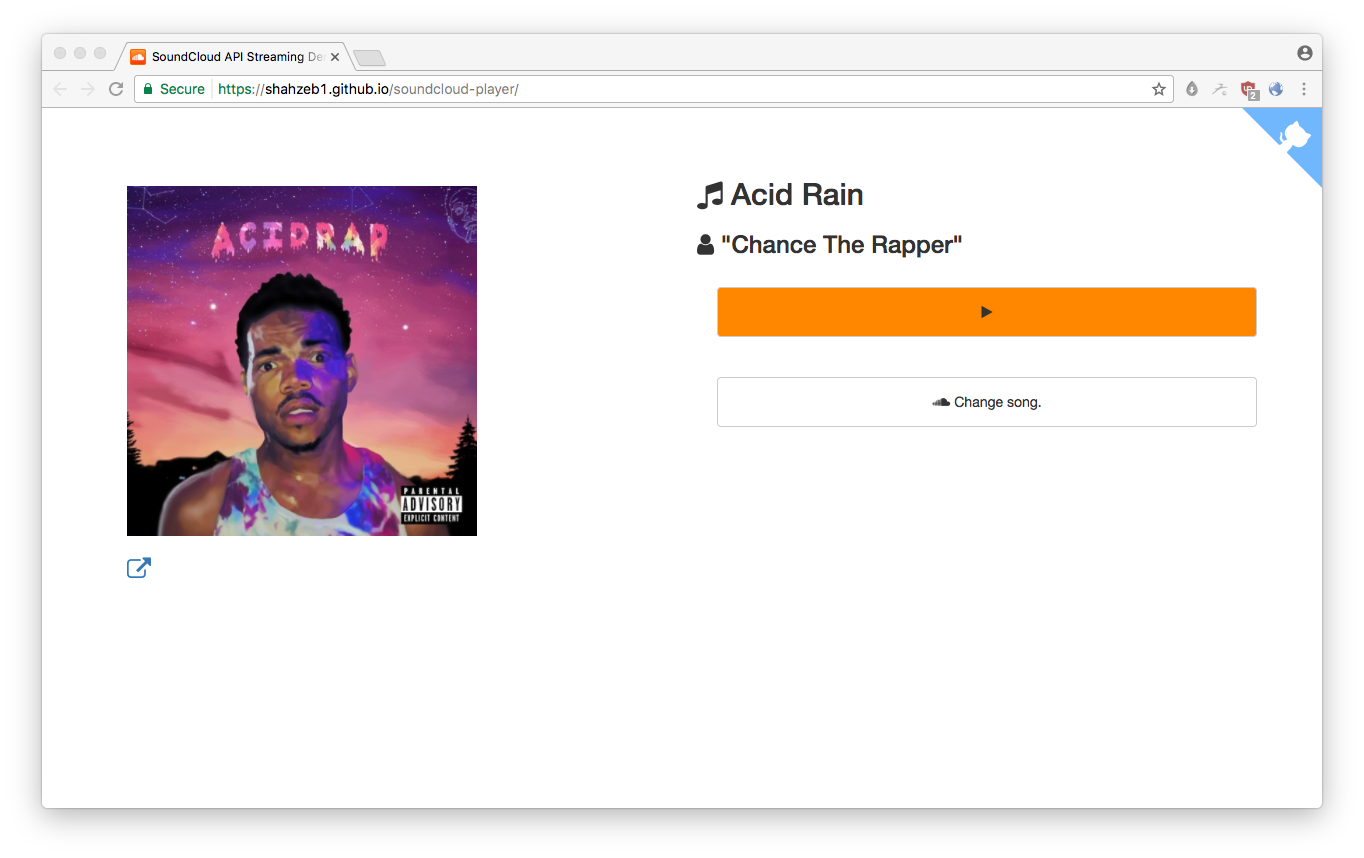
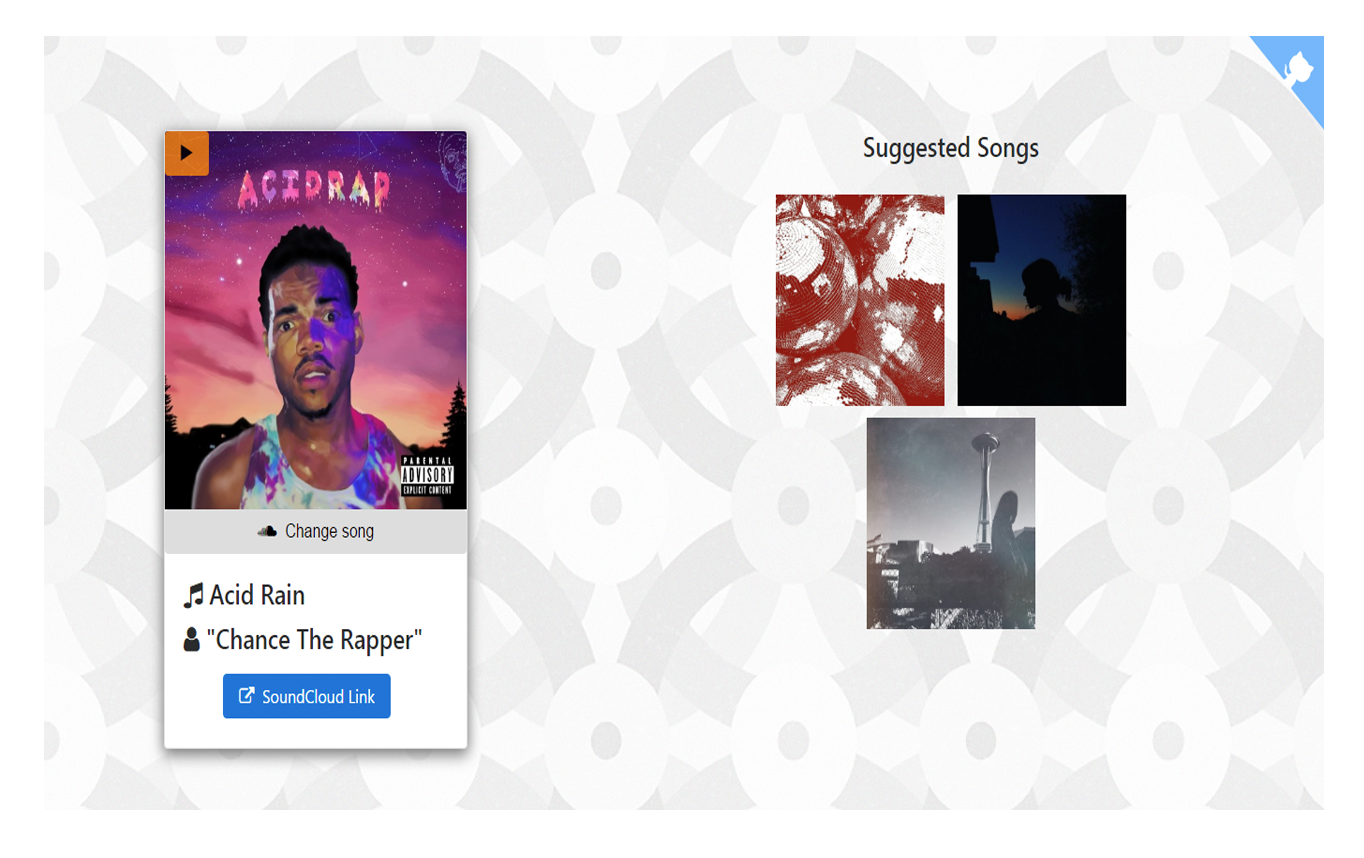
Redesigned UI and cleansed HTML/CSS files

diff --git a/index.html b/index.html
@@ -1,6 +1,6 @@
 <!DOCTYPE html>
 <html>
-  <head>
+<head>
     <title>SoundCloud API Streaming Demo</title>
     <!-- Bootstrap -->
     <link rel="stylesheet" href="https://maxcdn.bootstrapcdn.com/bootstrap/4.0.0-alpha.6/css/bootstrap.min.css" integrity="sha384-rwoIResjU2yc3z8GV/NPeZWAv56rSmLldC3R/AZzGRnGxQQKnKkoFVhFQhNUwEyJ" crossorigin="anonymous">
@@ -12,56 +12,55 @@
     <script src="mySC.js"></script>
     <!-- Font Awesome -->
     <link href="https://maxcdn.bootstrapcdn.com/font-awesome/4.7.0/css/font-awesome.min.css" rel="stylesheet" integrity="sha384-wvfXpqpZZVQGK6TAh5PVlGOfQNHSoD2xbE+QkPxCAFlNEevoEH3Sl0sibVcOQVnN" crossorigin="anonymous">
-    <link rel='stylesheet' href='style.css'/>
+    <link rel='stylesheet' href='style.css' />
     <!-- SoundCloud Favicon because why not. -->
-    <link rel='icon' href='favicon.ico'/>
-  </head>
-  <body>
+    <link rel='icon' href='favicon.ico' />
+</head>
 
+<body>
     <a href="https://github.com/shahzeb1/soundcloud-player" class="github-corner" aria-label="View source on Github">
-      <svg width="80" height="80" viewBox="0 0 250 250" style="fill:#70B7FD; color:#fff; position: absolute; top: 0; border: 0; right: 0;" aria-hidden="true">
-        <path d="M0,0 L115,115 L130,115 L142,142 L250,250 L250,0 Z"></path>
-        <path d="M128.3,109.0 C113.8,99.7 119.0,89.6 119.0,89.6 C122.0,82.7 120.5,78.6 120.5,78.6 C119.2,72.0 123.4,76.3 123.4,76.3 C127.3,80.9 125.5,87.3 125.5,87.3 C122.9,97.6 130.6,101.9 134.4,103.2" fill="currentColor" style="transform-origin: 130px 106px;" class="octo-arm"></path>
-        <path d="M115.0,115.0 C114.9,115.1 118.7,116.5 119.8,115.4 L133.7,101.6 C136.9,99.2 139.9,98.4 142.2,98.6 C133.8,88.0 127.5,74.4 143.8,58.0 C148.5,53.4 154.0,51.2 159.7,51.0 C160.3,49.4 163.2,43.6 171.4,40.1 C171.4,40.1 176.1,42.5 178.8,56.2 C183.1,58.6 187.2,61.8 190.9,65.4 C194.5,69.0 197.7,73.2 200.1,77.6 C213.8,80.2 216.3,84.9 216.3,84.9 C212.7,93.1 206.9,96.0 205.4,96.6 C205.1,102.4 203.0,107.8 198.3,112.5 C181.9,128.9 168.3,122.5 157.7,114.1 C157.9,116.9 156.7,120.9 152.7,124.9 L141.0,136.5 C139.8,137.7 141.6,141.9 141.8,141.8 Z" fill="currentColor" class="octo-body"></path>
-      </svg>
+        <svg width="80" height="80" viewBox="0 0 250 250" style="fill:#70B7FD; color:#fff; position: absolute; top: 0; border: 0; right: 0;" aria-hidden="true">
+            <path d="M0,0 L115,115 L130,115 L142,142 L250,250 L250,0 Z"></path>
+            <path d="M128.3,109.0 C113.8,99.7 119.0,89.6 119.0,89.6 C122.0,82.7 120.5,78.6 120.5,78.6 C119.2,72.0 123.4,76.3 123.4,76.3 C127.3,80.9 125.5,87.3 125.5,87.3 C122.9,97.6 130.6,101.9 134.4,103.2" fill="currentColor" style="transform-origin: 130px 106px;" class="octo-arm"></path>
+            <path d="M115.0,115.0 C114.9,115.1 118.7,116.5 119.8,115.4 L133.7,101.6 C136.9,99.2 139.9,98.4 142.2,98.6 C133.8,88.0 127.5,74.4 143.8,58.0 C148.5,53.4 154.0,51.2 159.7,51.0 C160.3,49.4 163.2,43.6 171.4,40.1 C171.4,40.1 176.1,42.5 178.8,56.2 C183.1,58.6 187.2,61.8 190.9,65.4 C194.5,69.0 197.7,73.2 200.1,77.6 C213.8,80.2 216.3,84.9 216.3,84.9 C212.7,93.1 206.9,96.0 205.4,96.6 C205.1,102.4 203.0,107.8 198.3,112.5 C181.9,128.9 168.3,122.5 157.7,114.1 C157.9,116.9 156.7,120.9 152.7,124.9 L141.0,136.5 C139.8,137.7 141.6,141.9 141.8,141.8 Z" fill="currentColor" class="octo-body"></path>
+        </svg>
     </a>
-
-    <div class='container'>
-      <div class='row'>
-        <div class='col-md-6'>
-          <img src='no-sc-artwork.png' id='thumbnail' alt='Album artwork'/><br>
-          <h3><a href="" id="sc_link" title="SoundCloud link" target="_blank"><i class="fa fa-external-link" aria-hidden="true"></i></a></h3>
+    <div class="container">
+        <div class="row">
+            <div class="col-md-6">
+                <div class="card">
+                    <img class="card-img-top" src="no-sc-artwork.png" alt="Album artwork" id="thumbnail">
+                    <button class="btn btn-default" id='play'>
+                        <i class="fa fa-play" aria-hidden="true"></i>
+                    </button>
+                    <button class="btn btn-default" id='pause'>
+                        <i class="fa fa-pause" aria-hidden="true"></i>
+                    </button>
+                    <button class="btn btn-default" id='newSong'>
+                        <i class="fa fa-soundcloud" aria-hidden="true"></i> &nbsp;Change song
+                    </button>
+                    <div class="card-block">
+                        <h4 class="card-title" id="song_title">Loading Song...</h4>
+                        <h4 class="card-text" id='song_artist'>Loading Artist...</h4>
+                        <a href="" id="sc_link" class="btn btn-primary" target="_blank">
+                            <i class="fa fa-external-link"></i>
+                            <span class="xs-hide">&nbsp;SoundCloud Link</span>
+                        </a>
+                    </div>
+                </div>
+            </div>
+            <div class="col-md-6 text-center">
+                <h4 id="suggestions">Suggested Songs</h4>
+                <div id="extraArtRow">
+                    <img src='no-sc-artwork.png' class='smallThumbnail' id="smallThumb1" alt='Album artwork' />
+                    <img src='no-sc-artwork.png' class='smallThumbnail' id="smallThumb2" alt='Album artwork' />
+                    <img src='no-sc-artwork.png' class='smallThumbnail' id="smallThumb3" alt='Album artwork' />
+                </div>
+            </div>
         </div>
-        <div class='col-md-6'>
-          <h2 id="song_title">Loading Song…</h2>
-          <h3 id='song_artist'>Loading Artist…</h3>
-          <div class='row'>
-            <button class="btn btn-default" id='play'><i class="fa fa-play" aria-hidden="true"></i></button>
-          </div>
-          <div class='row'>
-            <button class="btn btn-default" id='pause'><i class="fa fa-pause" aria-hidden="true"></i></button>
-          </div>
-          <div class='row'>
-            <button class="btn btn-default" id='newSong'><i class="fa fa-soundcloud" aria-hidden="true"></i> Change song.</button>
-          </div>
-          <div class="row" id="extraArtRow">
-            <div class="col-md-4 extra-art-container">
-              <img src='no-sc-artwork.png' class='smallThumbnail' id="smallThumb1" alt='Album artwork'/>
-            </div>
-            <div class="col-md-4 extra-art-container">
-              <img src='no-sc-artwork.png' class='smallThumbnail' id="smallThumb2" alt='Album artwork'/><br>
-            </div>
-            <div class="col-md-4 extra-art-container">
-              <img src='no-sc-artwork.png' class='smallThumbnail' id="smallThumb3" alt='Album artwork'/><br>
-            </div>
-          </div>
-        </div>
-      </div>
     </div>
     <div id='player'>
-      <iframe id="so" width="100%" height="160" scrolling="no" frameborder="0">Loading</iframe>
+        <iframe id="so" width="100%" height="160" scrolling="no" frameborder="0">Loading</iframe>
     </div>
-    <style>.github-corner:hover .octo-arm{animation:octocat-wave 560ms ease-in-out}@keyframes octocat-wave{0%,100%{transform:rotate(0)}20%,60%{transform:rotate(-25deg)}40%,80%{transform:rotate(10deg)}}@media (max-width:500px){.github-corner:hover .octo-arm{animation:none}.github-corner .octo-arm{animation:octocat-wave 560ms ease-in-out}}</style>
-    
-  </body>
+</body>
 </html>

diff --git a/style.css b/style.css
@@ -1,50 +1,140 @@
-.container{
-  padding-top: 50px;
+body {
+    background-image: url('https://www.toptal.com/designers/subtlepatterns/patterns/circles-and-roundabouts.png');
 }
 
-.extra-art-container{
-  text-align: center;
+.container {
+    margin-top: 5em;
 }
 
-#thumbnail{
-  width: 100%;
-  max-width: 400px;
-  margin-top: 28px;
+.card {
+    box-shadow: 0 4px 19px 1px #777;
+    display: inline-block;
+    width: 60%;
 }
 
-.btn{
-  text-align: center;
-  height: 50px;
-  width: 100%;
-  margin: 20px;
-  cursor: pointer;
+#thumbnail {
+    width: 100%;
+    max-width: 400px;
 }
 
-#play{
-  background: #FF8700;
+#sc_link {
+    margin: 10px 0 5px 15%;
 }
 
-#pause{
-  background: #FFB200;
-  display: none;
+#play,
+#pause,
+#newSong {
+    cursor: pointer;
 }
 
-iframe{
-  opacity: 0;
-  position: absolute;
-  right: -50px;
+#play,
+#pause {
+    position: absolute;
+    top: 0;
+    opacity: 0.8;
 }
 
-#player{
-  overflow: hidden;
-  position: relative;
+#play {
+    background: #FF8700;
 }
 
-.smallThumbnail{
-  width: 100%;
-  cursor: pointer;
+#pause {
+    background: #FFB200;
+    display: none;
 }
 
-#extraArtRow{
-  margin: 0px 20px;
+#newSong {
+    width: 100%;
+}
+
+iframe {
+    opacity: 0;
+    position: absolute;
+    right: -99999px;
+}
+
+#player {
+    overflow: hidden;
+    position: relative;
+}
+
+#extraArtRow {
+    display: inline-block;
+}
+
+.smallThumbnail {
+    width: 33.33333333%;
+    cursor: pointer;
+    margin: 5px;
+}
+
+#suggestions {
+    margin-bottom: 1em;
+}
+
+@media screen and (max-width:392px) {
+    .xs-hide {
+        display: none;
+    }
+    #sc_link {
+        margin: 1em 36% 0.5em;
+    }
+    .card {
+        width: 100%;
+    }
+}
+
+@media screen and (max-width:767px) {
+    #suggestions {
+        padding-top: 1em;
+    }
+}
+
+@media screen and (min-width:393px) and (max-width:767px) {
+    .card {
+        margin: 2px 18.5%;
+    }
+}
+
+@media screen and (min-width:393px) and (max-width:484px) {
+    #sc_link {
+        margin: 1em 0;
+    }
+}
+
+@media screen and (min-width:768px) and (max-width:991px) {
+    .card {
+        width: 100%;
+    }
+}
+
+
+/*github Octocat animation*/
+
+.github-corner:hover .octo-arm {
+    animation: octocat-wave 560ms ease-in-out
+}
+
+@keyframes octocat-wave {
+    0%,
+    100% {
+        transform: rotate(0)
+    }
+    20%,
+    60% {
+        transform: rotate(-25deg)
+    }
+    40%,
+    80% {
+        transform: rotate(10deg)
+    }
+}
+
+@media (max-width:500px) {
+    .github-corner:hover .octo-arm {
+        animation: none
+    }
+    .github-corner .octo-arm {
+        animation: octocat-wave 560ms ease-in-out
+    }
 }
